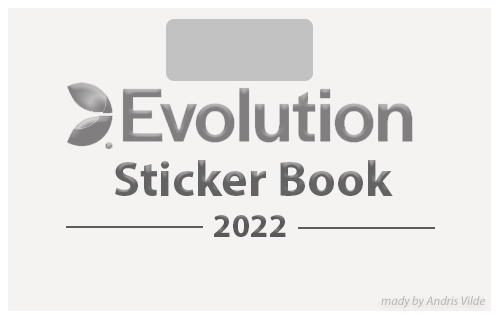
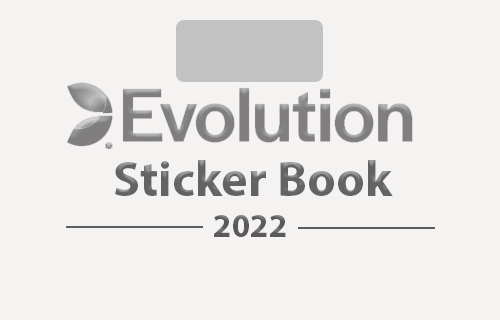
Change borders for stickers

Changed region(s): [[0.6, 0.0625, 0.66, 0.2812], [0.75, 0.9062, 0.96, 0.9688], [0.33, 0.0625, 0.36, 0.25]]

diff --git a/src/components/sticker/logo/LogoSticker.tsx b/src/components/sticker/logo/LogoSticker.tsx
@@ -3,6 +3,7 @@ import React from 'react'
 import { logoPathMapping } from '../../../assets/images'
 import { GameType } from '../../../consts'
 import stickerBacksidePath from '../../../assets/stickerBackside.png'
+import stickerPlaceholderPath from '../../../assets/stickerPlaceholder.png'
 
 import './LogoSticker.css'
 
@@ -11,40 +12,49 @@ export interface LogoStickerComponentProps {
 	isTurned: boolean
 	top: number
 	left: number
+	isUsed: boolean
 	className?: string
 }
 
 export const LogoStickerComponent: React.FC<LogoStickerComponentProps> = ({
 	gameType,
 	isTurned,
-	className,
 	top,
 	left,
+	isUsed,
+	className,
 }) => {
 	const stickerClasses = cn('logoSticker', className)
 
 	const stickerStyle = {
-		transform: `translate(${top}%, ${left * 3}%)`,
+		top: `${top}%`,
+		left: `${left}%`,
 	} as React.CSSProperties
 
-	const borderSizes = 'sm:border md:border-2 lg:border-4 xl:border-8'
+	const borderSizes = 'sm:border md:border-2 lg:border-4 xl:border-4'
 
-	const frontSideClassName = cn('front', 'side', borderSizes, 'shadow-xl', {
-		isTurned: isTurned,
-	})
+	const frontSideClassName = cn(
+		'front',
+		'side',
+		borderSizes,
+		isUsed ? 'shadow-xl' : null,
+		{ isTurned: isTurned }
+	)
 
 	const backSideClassNames = cn(
 		'back',
 		'side',
 		'shadow-xl',
 		'shadow-slate-300',
-		'border',
-		'border-slate-300',
+		borderSizes,
+		'border-white',
 		{ isTurned: isTurned }
 	)
 
 	const frontSideStyle = {
-		backgroundImage: `url(${logoPathMapping[gameType]})`,
+		backgroundImage: isUsed
+			? `url(${logoPathMapping[gameType]})`
+			: `url(${stickerPlaceholderPath})`,
 	} as React.CSSProperties
 
 	const backSideStyle = {

diff --git a/src/stories/StickerBook.story.tsx b/src/stories/StickerBook.story.tsx
@@ -1,15 +1,73 @@
 import { Story } from '@storybook/react'
-import {
-	StickerBook,
-	StickerBookProps,
-} from '../components/stickerBook/StickerBook'
+import { StickerBook } from '../components/stickerBook/StickerBook'
+import { GameType, PageType } from '../consts'
+import { Pages } from '../state/types'
 
-export const StickerBookStory: Story<StickerBookProps> = (props) => {
+interface StickerBookStoryProps {
+	pages: Pages
+}
+
+export const StickerBookStory: Story<StickerBookStoryProps> = ({ pages }) => {
+	const mockedState = {
+		stickers: [],
+		pages,
+	}
+
 	return (
 		<div>
-			<StickerBook {...props} />
+			<StickerBook stickerBookState={mockedState} />
 		</div>
 	)
 }
-StickerBookStory.args = {}
+StickerBookStory.args = {
+	pages: [
+		{
+			background: PageType.DreamCatcherLeft,
+			stickers: [
+				{
+					top: 60,
+					left: 2,
+					isUsed: false,
+				},
+				{
+					top: 40,
+					left: 40,
+					isUsed: true,
+				},
+				{
+					top: 10,
+					left: 60,
+					isUsed: false,
+				},
+				{
+					top: 2,
+					left: 2,
+					isUsed: true,
+				},
+			],
+		},
+		{
+			background: PageType.DreamCatcherRight,
+			logoSticker: {
+				gameType: GameType.DreamCatcher,
+				top: 80,
+				left: 20,
+				isUsed: false,
+			},
+		},
+		{
+			background: PageType.MegaballLeft,
+		},
+		{
+			background: PageType.MegaballRight,
+		},
+	] as Pages,
+}
+StickerBookStory.argTypes = {
+	pages: {
+		control: {
+			type: 'object',
+		},
+	},
+}
 StickerBookStory.storyName = 'Sticker book'

diff --git a/src/components/sticker/page/PageSticker.tsx b/src/components/sticker/page/PageSticker.tsx
@@ -1,20 +1,23 @@
 import cn from 'classnames'
 import React from 'react'
+import stickerPlaceholderPath from '../../../assets/stickerPlaceholder.png'
 
 import './PageSticker.css'
 
 export interface PageStickerProps {
 	top: number
 	left: number
+	isUsed: boolean
 	className?: string
 }
 
 export const PageSticker: React.FC<PageStickerProps> = ({
 	top,
 	left,
+	isUsed,
 	className,
 }) => {
-	const borderSizes = 'sm:border md:border-2 lg:border-4 xl:border-8'
+	const borderSizes = 'sm:border md:border-2 lg:border-4 xl:border-4'
 	const stickerClasses = cn(
 		'pageSticker',
 		borderSizes,
@@ -25,6 +28,8 @@ export const PageSticker: React.FC<PageStickerProps> = ({
 	const stickerStyle = {
 		top: `${top}%`,
 		left: `${left}%`,
+		backgroundImage: isUsed ? null : `url(${stickerPlaceholderPath})`,
+		backgroundSize: isUsed ? 'initial' : '100% 100%',
 	} as React.CSSProperties
 
 	return <div className={stickerClasses} style={stickerStyle}></div>

diff --git a/src/components/sticker/dynamic/DynamicSticker.tsx b/src/components/sticker/dynamic/DynamicSticker.tsx
@@ -16,7 +16,7 @@ export interface DynamicStickerComponentProps {
 
 export const DynamicStickerComponent: React.FC<DynamicStickerComponentProps> =
 	({ pageType, top, left, isTurned, className }) => {
-		const borderSizes = 'sm:border md:border-2 lg:border-4 xl:border-8'
+		const borderSizes = 'sm:border md:border-2 lg:border-4 xl:border-4'
 		const stickerClasses = cn('dynamicSticker', className)
 
 		const stickerStyle = {
@@ -36,8 +36,8 @@ export const DynamicStickerComponent: React.FC<DynamicStickerComponentProps> =
 		const backSideClassNames = cn(
 			'back',
 			'side',
-			'border',
-			'border-slate-300',
+			borderSizes,
+			'border-white',
 			'shadow-xl',
 			{ isTurned: isTurned }
 		)

diff --git a/src/components/sticker/dynamic/DynamicSticker.css b/src/components/sticker/dynamic/DynamicSticker.css
@@ -1,8 +1,8 @@
 .dynamicSticker {
 	position: absolute;
 	perspective: 150rem;
-	width: 267px;
-	height: 176px;
+	width: 16.69em;
+	height: 11em;
 }
 
 .dynamicSticker > .side {
@@ -14,11 +14,15 @@
 }
 
 .dynamicSticker > .side.back {
+	background-size: cover;
 	transform: rotateY(-180deg);
 }
 
 .dynamicSticker > .side.front {
-	background-size: 200% 400%;
+	/* assets/backgrounds image ratio */
+	/* ().dynamicSticker.width / image.width) * 100 */
+	/* ().dynamicSticker.height / image.height) * 100 */
+	background-size: 638% 1086%;
 }
 .dynamicSticker > .side.front.isTurned {
 	transform: rotateY(180deg);

diff --git a/src/stories/LogoSticker.story.tsx b/src/stories/LogoSticker.story.tsx
@@ -5,6 +5,7 @@ import { GameType } from '../consts'
 interface StickerStoryProps {
 	gameType: GameType
 	isTurned: boolean
+	isUsed: boolean
 }
 
 export const LogoStickerStory: Story<StickerStoryProps> = (props) => (
@@ -18,6 +19,7 @@ export const LogoStickerStory: Story<StickerStoryProps> = (props) => (
 )
 LogoStickerStory.args = {
 	isTurned: false,
+	isUsed: false,
 	gameType: GameType.Megaball,
 }
 LogoStickerStory.argTypes = {

diff --git a/src/stories/DynamicSticker.story.tsx b/src/stories/DynamicSticker.story.tsx
@@ -16,12 +16,7 @@ export const DynamicStickerStory: Story<StickerStoryProps> = (props) => (
 			left: 0 !important;
 		}`}</style>
 
-		<div
-			style={{
-				width: 'calc(var(--page-width) * 2)',
-				height: 'var(--page-height)',
-			}}
-		>
+		<div style={{ position: 'relative' }}>
 			<DynamicStickerComponent {...props} className="storybookSticker" />
 		</div>
 	</>

diff --git a/src/components/sticker/logo/LogoSticker.css b/src/components/sticker/logo/LogoSticker.css
@@ -1,8 +1,8 @@
 .logoSticker {
-	position: relative;
+	position: absolute;
 	perspective: 150rem;
-	width: 31.25em;
-	height: 20em;
+	width: 16.69em;
+	height: 11em;
 }
 
 .logoSticker > .side {
@@ -15,6 +15,7 @@
 
 .logoSticker > .side.back {
 	transform: rotateY(-180deg);
+	background-size: cover;
 }
 
 .logoSticker > .side.front {

diff --git a/src/components/page/page/Page.tsx b/src/components/page/page/Page.tsx
@@ -49,9 +49,7 @@ export const PageComponent: React.FC<PageComponentProps> = ({
 	const pageTurnerClasses = cn(
 		isOdd ? 'right-0' : 'left-0',
 		'bottom-0 top-0 border-4 border-indigo-500 w-12 h-full absolute cursor-pointer',
-		{
-			isTurned: isTurned,
-		}
+		{ isTurned: isTurned }
 	)
 
 	return (

diff --git a/src/utils/randomDataUtils.ts b/src/utils/randomDataUtils.ts
@@ -1,0 +1,9 @@
+import { Pages, Stickers } from '../state/types'
+
+export function generateStickers(): Stickers {
+	return []
+}
+
+export function generatePages(): Pages {
+	return []
+}

diff --git a/src/components/sticker/page/PageSticker.css b/src/components/sticker/page/PageSticker.css
@@ -1,5 +1,5 @@
 .pageSticker {
 	position: absolute;
-	width: 31.25em;
-	height: 20em;
+	width: 16.69em;
+	height: 11em;
 }
